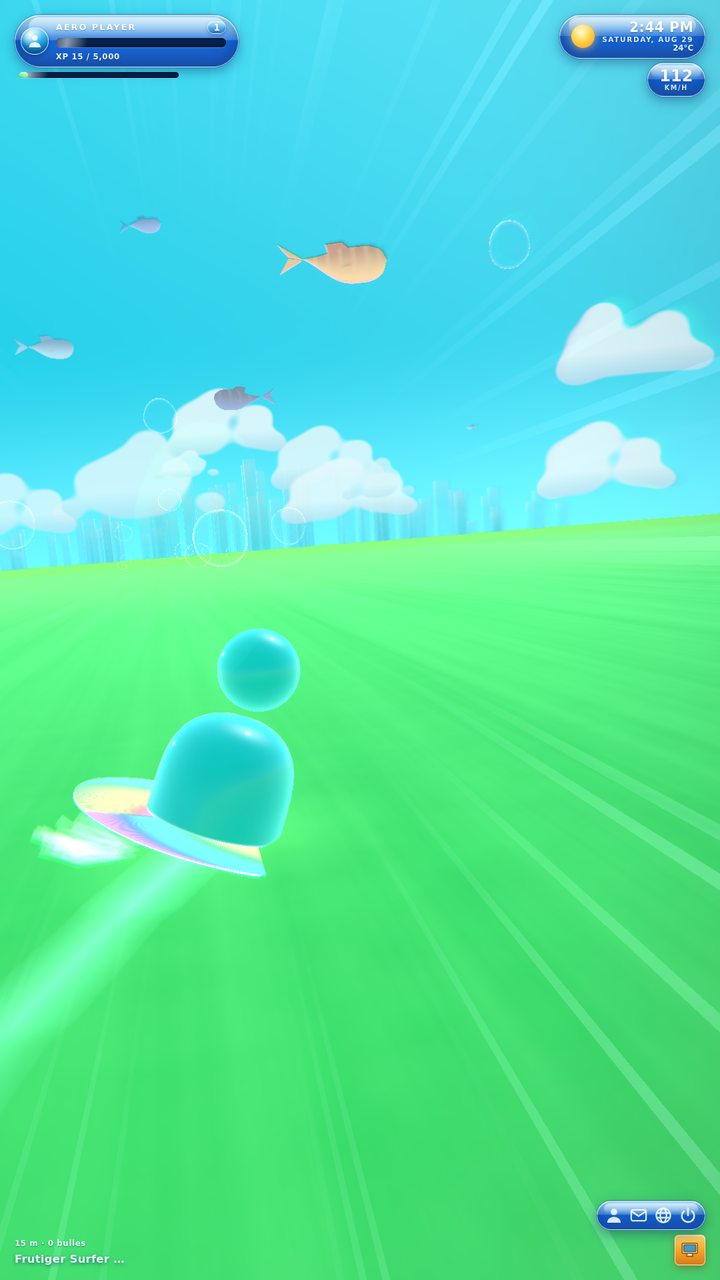
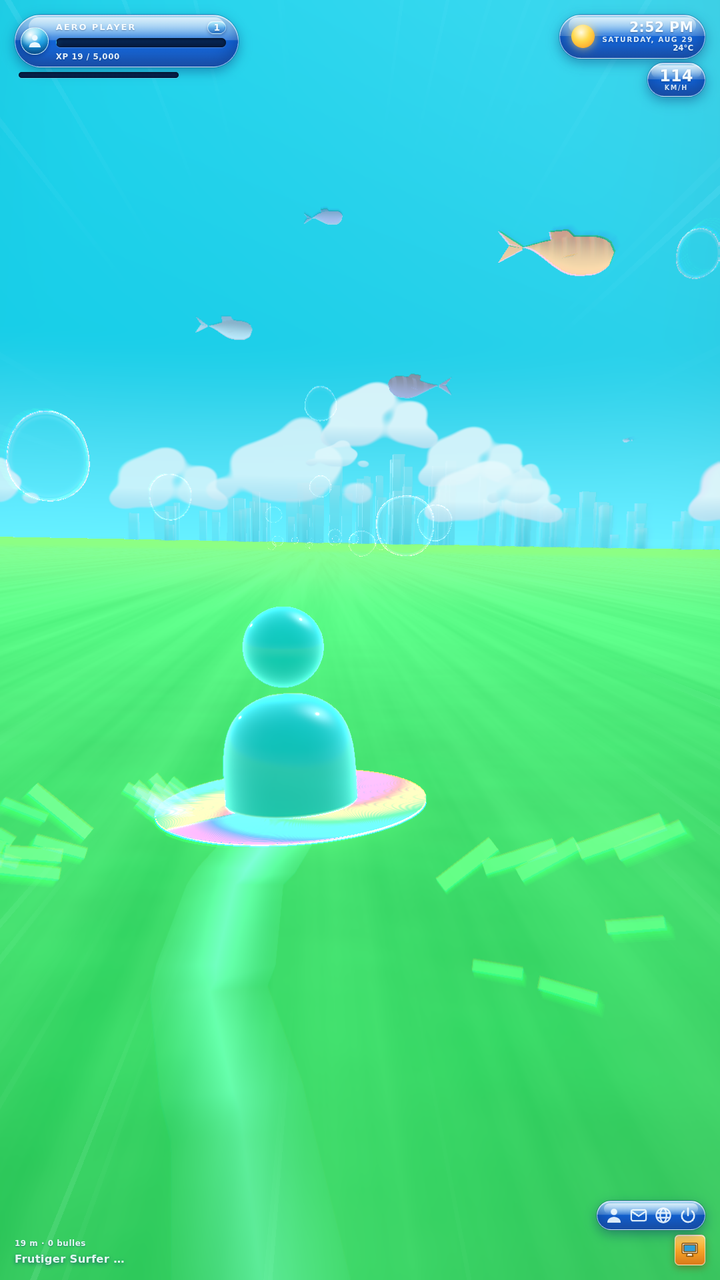
Remplace l'image d'illustration par un pop de carve
La gerbe radiale, le ruban en S et les 114 km/h montrent la boucle de jeu
mieux que la capture en ligne droite.

Claude-Session: https://claude.ai/code/session_01WqWC2U7L7tyyE6q55wQEtm

diff --git a/README.md b/README.md
@@ -11,7 +11,7 @@ Le cœur du projet, ce n'est pas la scène. C'est **la glisse**.
 
 <p align="center">
   <img src="docs/hero.png" width="360" alt="Le surfeur MSN sur son CD" />
-  <img src="docs/hero-boost.png" width="360" alt="Carve a pleine vitesse" />
+  <img src="docs/hero-boost.png" width="360" alt="Pop de carve a 114 km/h" />
 </p>
 
 ## Lancer
